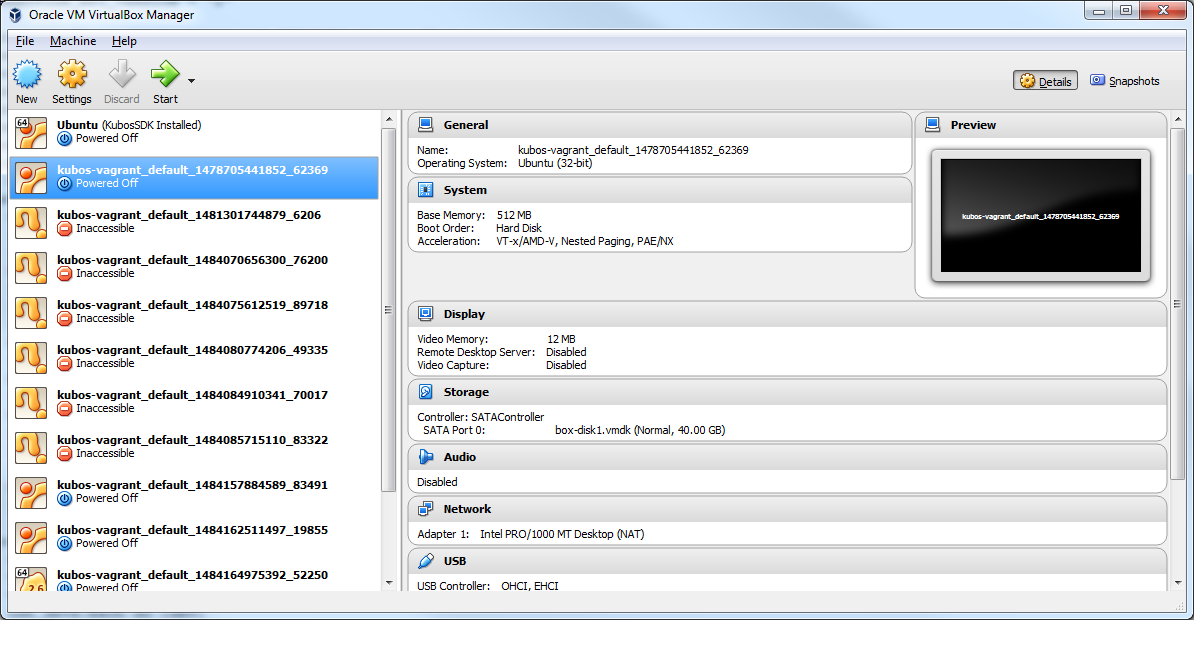
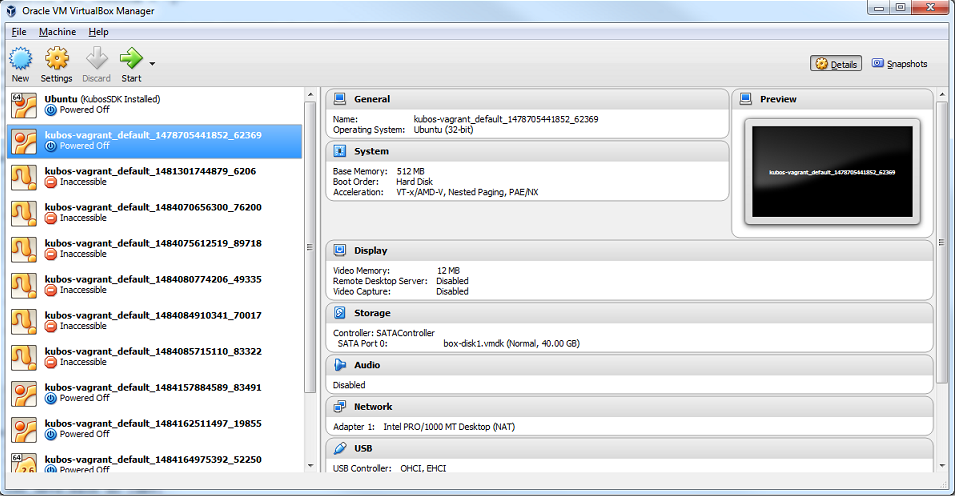
Fixing image display size. Changing section title for clarity.

diff --git a/docs/working-with-the-iobc.md b/docs/working-with-the-iobc.md
@@ -159,7 +159,7 @@ For example:
 
     $ kubos flash /home/vagrant/not-my-project/test-util.sh
 
-## Troubleshooting {#troubleshooting}
+## Flash Troubleshooting {#flash-troubleshooting}
 
 Flashing a file to the board can fail for various reasons. Sometimes simply reattempting the command can correct the problem.
 
